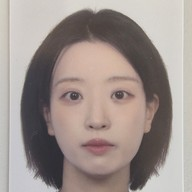
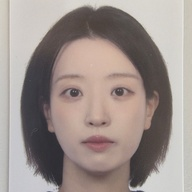
Add files via upload

diff --git a/index.html b/index.html
@@ -1,4 +1,4 @@
-<!doctype html><html lang="ko"><head>
+<!doctype html><html lang="en"><head>
 <meta charset="utf-8"><meta name="viewport" content="width=device-width, initial-scale=1">
 <title>Home · Hyoyeon (Yeona) Lee</title>
 <link rel="stylesheet" href="/assets/style.css"></head>
@@ -21,45 +21,69 @@
   </div>
 </section>
 <section class="section">
-  <p>Hi, I’m <strong>Hyoyeon (Yeona) Lee</strong>. I build end-to-end data & ML systems for semiconductor and finance.
-  My interests include Bayesian optimization, robust/trustworthy ML, and quantitative research.</p>
+  <p>Hi, I’m <strong>Hyoyeon (Yeona) Lee</strong>. I build end‑to‑end data & ML systems for semiconductor and finance. My interests include Bayesian optimization, robust/trustworthy ML, and quantitative research.</p>
 </section>
+
 <section class="section">
-  <h2>Highlights</h2>
-  <div class="grid-2"><div><ul>
-    <li>ML optimization platform for DRAM test data.</li>
-    <li>Big-data engineering with Dask, PyArrow, AWS Glue, Airflow.</li>
-  </ul></div><div><ul>
-    <li>Robust RL & causal inference for industrial data.</li>
-    <li>Quant research projects & reproducible code.</li>
-  </ul></div></div>
-</section>
-<section class="section">
-  <h2>Projects (preview)</h2>
-  <ul class="cards">
-    <li class="card">
-      <h3>Alpha-Helix: Quant Research Pipeline</h3>
-      <p>Data lake → research notebooks → backtests → live execution scaffolding.</p>
-      <div class="tags"><span class="tag">Python</span><span class="tag">Pandas</span><span class="tag">Backtest</span></div>
-    </li>
-    <li class="card">
-      <h3>BLSA Optimization Platform</h3>
-      <p>Bayesian optimization & robust ML for DRAM parameter tuning.</p>
-      <div class="tags"><span class="tag">BayesOpt</span><span class="tag">PyTorch</span><span class="tag">AWS</span></div>
-    </li>
-    <li class="card">
-      <h3>MECC Early Detection</h3>
-      <p>Signal extraction for early defect detection on semiconductor logs.</p>
-      <div class="tags"><span class="tag">Anomaly</span><span class="tag">Dask</span></div>
-    </li>
+  <h2>Highlights <img src="/assets/img/samsung-badge.svg" alt="Samsung Electronics" style="height:22px;vertical-align:-4px;margin-left:8px"></h2>
+  <ul>
+    <li><strong>AI model optimization at large-scale manufacturing sites.</strong> On real DRAM mass‑production lines, deployed ML optimization frameworks on high‑volume test streams and achieved record‑high yields for new products. Engineered Bit Line Sense Amplifier (BLSA) optimization with Python and C/C++; built a cloud edge‑computing–based platform that performs real‑time optimization and automation across multi‑device testing environments. Afterward, I directly set up the ML optimization system for <em>all</em> incoming DRAM product requests.</li>
+    <li><strong>Big‑data & platform engineering.</strong> Designed and operated a TB‑scale parallel processing framework using Dask, PyArrow, and AWS Glue to handle production logs. Fully automated anomaly detection via Airflow pipelines. Authored seven reusable automation tools that reduced repetitive tasks by ~90%, with results validated by team and division awards.</li>
+    <li><strong>Independent R&D (Algorithms · Causal/RL).</strong> Performed defect‑cause inference using ML data analytics, hybrid ML tuning for process parameters, and robust reinforcement learning. Results include an IEEM‑accepted paper and presentation, two patents, and CEO/Best Paper awards.</li>
+    <li><strong>Leadership · Communication · Education.</strong> Served as Culture Agent for a 50‑member team and taught internal ML seminars (won Best Seminar Award). Consistently connected seminar/research insights to independent decision‑making on new algorithm development projects.</li>
   </ul>
-  <p class="small"><a href="/projects/">See all projects →</a></p>
+  <div class="badges">
+    <span class="badge">Google Professional ML Engineer</span>
+    <span class="badge">AWS Solutions Architect – Associate</span>
+    <span class="badge">AWS Machine Learning – Specialty</span>
+    <span class="badge">AWS Data Engineer – Associate</span>
+  </div>
 </section>
+
+
+<section class="section">
+  <h2>Project <strong>Alpha‑Helix</strong> 🧬 — End‑to‑End Quantitative Research & Trading System</h2>
+  <p class="disclosure">Open personal side project (company work is proprietary).</p>
+  <p>This single, large‑scale project contains three tightly integrated modules to demonstrate true “full‑stack” capability across the entire quant lifecycle — from data ingestion to research and live execution.</p>
+
+  <div class="module" id="chronos">
+    <h3><strong>Module 1: “Chronos” · Datalake — Governing the time of data</strong></h3>
+    <p><em>Goal:</em> Build an automated, high‑quality data pipeline that becomes the foundation for all quantitative research (emphasizing data‑engineering skill).</p>
+    <p><em>Key capabilities:</em></p>
+    <ul>
+      <li><strong>Automated ingestion.</strong> Use Airflow to automatically collect historical market and on‑chain data every day and store it in object storage such as S3.</li>
+      <li><strong>Data quality management.</strong> Integrate Great Expectations into the pipeline to automatically validate missing values, outliers, and schema, and generate human‑readable reports.</li>
+      <li><strong>Efficient storage & access.</strong> Leverage Parquet and DuckDB so that even very large datasets can be loaded in seconds for any requested time window and shape.</li>
+    </ul>
+  </div>
+
+  <div class="module" id="hermes">
+    <h3><strong>Module 2: “Hermes” · Real‑time Signal Engine — Delivering the market’s signals</strong></h3>
+    <p><em>Goal:</em> Receive market data in real time, analyze it, and generate meaningful trading signals with minimal latency (emphasizing ML engineering / algorithmic trading skill).</p>
+    <p><em>Key capabilities:</em></p>
+    <ul>
+      <li><strong>Asynchronous data processing.</strong> Use <code>asyncio</code> and WebSocket to ingest data from multiple exchanges simultaneously in a non‑blocking fashion.</li>
+      <li><strong>Real‑time feature extraction.</strong> Use Redis as a state store and compute rolling microstructure features (e.g., OFI, realized volatility) directly on the stream.</li>
+      <li><strong>Message‑queue architecture.</strong> Employ Redis Pub/Sub to decouple ingestion → feature extraction → signal generation, ensuring scalability and robustness.</li>
+    </ul>
+  </div>
+
+  <div class="module" id="athena">
+    <h3><strong>Module 3: “Athena” · Strategy & Insight Dashboard — Finding wisdom in data</strong></h3>
+    <p><em>Goal:</em> Discover new alpha strategies using the datalake and signal engine, and analyze/monitor their performance in an intuitive way (emphasizing quant strategy skill).</p>
+    <p><em>Key capabilities:</em></p>
+    <ul>
+      <li><strong>Regime‑based strategies.</strong> Use ML models such as HMM to classify the market into regimes (trend / range / high‑vol) and automatically switch strategies per regime.</li>
+      <li><strong>Systematic experiment management.</strong> Adopt MLflow to record parameters, performance metrics, and result charts for a large number of backtests, enabling rigorous comparison.</li>
+      <li><strong>Interactive dashboard.</strong> Build Streamlit/Dash dashboards to monitor current regime state, recommended strategies, paper‑trading performance, and key on‑chain indicators.</li>
+    </ul>
+  </div>
+</section>
+
 <section class="section">
   <h2>Contact</h2>
   <p class="small">Email: <a href="mailto:hylee132@gmail.com">hylee132@gmail.com</a></p>
 </section>
 
   <div class="footer">© 2025 Hyoyeon (Yeona) Lee · Hosted on GitHub Pages</div>
-</main>
-</body></html>
+</main></body></html>

diff --git a/projects/index.html b/projects/index.html
@@ -1,4 +1,4 @@
-<!doctype html><html lang="ko"><head>
+<!doctype html><html lang="en"><head>
 <meta charset="utf-8"><meta name="viewport" content="width=device-width, initial-scale=1">
 <title>Projects · Hyoyeon (Yeona) Lee</title>
 <link rel="stylesheet" href="/assets/style.css"></head>
@@ -8,27 +8,45 @@
   <nav class="nav"><a href="/about/">About</a><a href="/research/">Research</a><a href="/teaching/">Teaching</a><a href="/projects/">Projects</a><a href="/news/">News</a><a href="/cv/">CV</a></nav>
 </div></header>
 <main class="container main">
-
 <h1>Projects</h1>
-<ul class="cards">
-  <li class="card">
-    <h3>Alpha-Helix: Quant Research Pipeline</h3>
-    <p>Repo-structured pipeline for ingestion, feature lab, strategy research, and backtesting.</p>
-    <div class="tags"><span class="tag">Python</span><span class="tag">Pandas</span><span class="tag">Vectorbt</span></div>
-  </li>
-  <li class="card">
-    <h3>BLSA Optimization Platform</h3>
-    <p>Process parameter optimization with Bayesian optimization & robust ML.</p>
-    <div class="tags"><span class="tag">BayesOpt</span><span class="tag">PyTorch</span><span class="tag">AWS</span></div>
-  </li>
-  <li class="card">
-    <h3>MECC Early Detection</h3>
-    <p>Anomaly detection and alarming on multi-modal semiconductor test logs.</p>
-    <div class="tags"><span class="tag">Anomaly</span><span class="tag">Dask</span><span class="tag">Airflow</span></div>
-  </li>
-</ul>
-<p class="small">각 카드에 GitHub/논문/포스트 링크 버튼도 추가할 수 있어요.</p>
+<section class="section">
+  <h2>Project <strong>Alpha‑Helix</strong> 🧬 — End‑to‑End Quantitative Research & Trading System</h2>
+  <p class="disclosure">Open personal side project (company work is proprietary).</p>
+  <p>This single, large‑scale project contains three tightly integrated modules to demonstrate true “full‑stack” capability across the entire quant lifecycle — from data ingestion to research and live execution.</p>
+
+  <div class="module" id="chronos">
+    <h3><strong>Module 1: “Chronos” · Datalake — Governing the time of data</strong></h3>
+    <p><em>Goal:</em> Build an automated, high‑quality data pipeline that becomes the foundation for all quantitative research (emphasizing data‑engineering skill).</p>
+    <p><em>Key capabilities:</em></p>
+    <ul>
+      <li><strong>Automated ingestion.</strong> Use Airflow to automatically collect historical market and on‑chain data every day and store it in object storage such as S3.</li>
+      <li><strong>Data quality management.</strong> Integrate Great Expectations into the pipeline to automatically validate missing values, outliers, and schema, and generate human‑readable reports.</li>
+      <li><strong>Efficient storage & access.</strong> Leverage Parquet and DuckDB so that even very large datasets can be loaded in seconds for any requested time window and shape.</li>
+    </ul>
+  </div>
+
+  <div class="module" id="hermes">
+    <h3><strong>Module 2: “Hermes” · Real‑time Signal Engine — Delivering the market’s signals</strong></h3>
+    <p><em>Goal:</em> Receive market data in real time, analyze it, and generate meaningful trading signals with minimal latency (emphasizing ML engineering / algorithmic trading skill).</p>
+    <p><em>Key capabilities:</em></p>
+    <ul>
+      <li><strong>Asynchronous data processing.</strong> Use <code>asyncio</code> and WebSocket to ingest data from multiple exchanges simultaneously in a non‑blocking fashion.</li>
+      <li><strong>Real‑time feature extraction.</strong> Use Redis as a state store and compute rolling microstructure features (e.g., OFI, realized volatility) directly on the stream.</li>
+      <li><strong>Message‑queue architecture.</strong> Employ Redis Pub/Sub to decouple ingestion → feature extraction → signal generation, ensuring scalability and robustness.</li>
+    </ul>
+  </div>
+
+  <div class="module" id="athena">
+    <h3><strong>Module 3: “Athena” · Strategy & Insight Dashboard — Finding wisdom in data</strong></h3>
+    <p><em>Goal:</em> Discover new alpha strategies using the datalake and signal engine, and analyze/monitor their performance in an intuitive way (emphasizing quant strategy skill).</p>
+    <p><em>Key capabilities:</em></p>
+    <ul>
+      <li><strong>Regime‑based strategies.</strong> Use ML models such as HMM to classify the market into regimes (trend / range / high‑vol) and automatically switch strategies per regime.</li>
+      <li><strong>Systematic experiment management.</strong> Adopt MLflow to record parameters, performance metrics, and result charts for a large number of backtests, enabling rigorous comparison.</li>
+      <li><strong>Interactive dashboard.</strong> Build Streamlit/Dash dashboards to monitor current regime state, recommended strategies, paper‑trading performance, and key on‑chain indicators.</li>
+    </ul>
+  </div>
+</section>
 
   <div class="footer">© 2025 Hyoyeon (Yeona) Lee · Hosted on GitHub Pages</div>
-</main>
-</body></html>
+</main></body></html>

diff --git a/assets/style.css b/assets/style.css
@@ -3,36 +3,39 @@
 html,body{margin:0;padding:0;background:var(--bg);color:var(--text);
   font-family: Inter,-apple-system,BlinkMacSystemFont,"Segoe UI",Roboto,"Noto Sans KR",Arial,"Apple SD Gothic Neo","Malgun Gothic",sans-serif}
 a{color:var(--link);text-decoration:none}a:hover{text-decoration:underline}
-.container{width:min(960px,92vw);margin:0 auto}
+.container{width:min(1000px,92vw);margin:0 auto}
 .header{position:sticky;top:0;background:#fff;border-bottom:1px solid var(--border);z-index:9}
 .header-inner{display:flex;align-items:center;justify-content:space-between;padding:16px 0}
 .brand{font-weight:800;font-size:20px}
 .nav a{margin-left:16px;color:#374151;font-weight:600}.nav a:hover{color:#111827}
-.main{padding:26px 0 50px}
-.hero{display:grid;grid-template-columns:112px 1fr;gap:18px;align-items:center}
-.hero img{width:112px;height:112px;border-radius:50%;border:1px solid var(--border);object-fit:cover}
-h1{font-size:28px;line-height:1.2;margin:0 0 6px 0}
-p{line-height:1.7}.small{color:var(--muted);font-size:14px;margin:0}
+.main{padding:28px 0 60px}
+.hero{display:grid;grid-template-columns:210px 1fr;gap:22px;align-items:center}
+.hero img{width:192px;height:192px;border-radius:50%;border:1px solid var(--border);object-fit:cover}
+h1{font-size:34px;line-height:1.15;margin:0 0 8px 0}
+p{line-height:1.75}.small{color:var(--muted);font-size:14px;margin:0}
 .list-inline{display:flex;gap:10px;flex-wrap:wrap;margin:10px 0}
-.section{margin-top:26px}.section h2{font-size:20px;border-bottom:1px solid var(--border);padding-bottom:6px;margin-bottom:10px}
+.section{margin-top:28px}.section h2{font-size:20px;border-bottom:1px solid var(--border);padding-bottom:6px;margin-bottom:12px}
 .footer{border-top:1px solid var(--border);padding:16px 0;color:#6b7280;font-size:14px;margin-top:40px}
 .grid-2{display:grid;grid-template-columns:1fr 1fr;gap:16px}
 hr{border:none;border-top:1px solid var(--border);margin:20px 0}
 
-/* Cards for projects */
-.cards{display:grid;grid-template-columns:repeat(auto-fit,minmax(260px,1fr));gap:14px;list-style:none;padding:0;margin:8px 0}
+/* Badges */
+.badges{display:flex;gap:8px;flex-wrap:wrap;margin-top:10px}
+.badge{display:inline-block;padding:6px 10px;border:1px solid var(--border);border-radius:999px;background:#f9fafb;color:#111827;font-weight:600;font-size:12px}
+
+/* Cards */
+.cards{display:grid;grid-template-columns:repeat(auto-fit,minmax(300px,1fr));gap:14px;list-style:none;padding:0;margin:8px 0}
 .card{border:1px solid var(--border);border-radius:12px;padding:14px;background:#fff}
 .card h3{margin:0 0 6px 0;font-size:16px}
 .tags{margin-top:8px;display:flex;gap:6px;flex-wrap:wrap}
-.tag{border:1px solid var(--border);border-radius:999px;padding:4px 8px;font-size:12px;background:#f9fafb;color:#111827}
+.tag{border:1px solid var(--border);border-radius:999px;padding:4px 8px;font-size:12px;background:#f3f4f6;color:#111827}
 
-/* News list */
-.news-list{list-style:none;padding:0;margin:8px 0}
-.news-item{display:flex;gap:14px;padding:10px 0;border-bottom:1px dashed var(--border)}
-.date{width:110px;color:#6b7280;font-size:13px;flex-shrink:0}
-.news-item:last-child{border-bottom:none}
+/* Module sections in projects */
+.module{border:1px solid var(--border);border-radius:12px;padding:16px;margin:12px 0;background:#fff}
+.module h3{margin:0 0 8px 0}
+.disclosure{font-size:13px;color:#6b7280;margin:6px 0 0 0}
 
-@media(max-width:640px){
-  .hero{grid-template-columns:1fr}.hero img{order:-1}
-  .date{width:auto}
+@media(max-width:760px){
+  .hero{grid-template-columns:1fr}.hero img{order:-1;width:168px;height:168px}
+  h1{font-size:30px}
 }
